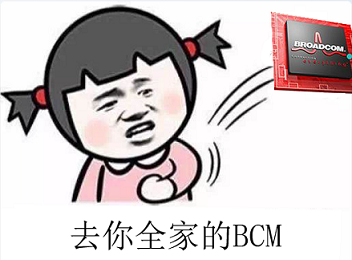
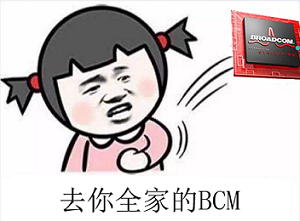
update

diff --git a/guide.md b/guide.md
@@ -60,7 +60,7 @@ scut_padavan最新的源代码在以下两个仓库里分发：
 - [https://github.com/hanwckf/rt-n56u](https://github.com/hanwckf/rt-n56u)
 - [https://gitee.com/hanwckf/rt-n56u](https://gitee.com/hanwckf/rt-n56u)
 
-固件里使用的scutclient为原项目的一个Fork，其源码可以在以下仓库里找到：
+scut_padavan集成的scutclient为原项目的一个Fork，其源码可以在以下仓库里找到：
 
 - [https://github.com/hanwckf/scutclient](https://github.com/hanwckf/scutclient)
 
@@ -473,6 +473,8 @@ scut_padavan默认开启ssh并关闭telnet，默认的用户名和密码都是`a
 
 使用ath10k开源驱动，路由器最好要有128M或以上的RAM；如果使用闭源的qcawifi驱动，则64M内存一般足够(如斐讯K2T等64M内存的路由器)。
 
+关于在OpenWrt使用scutclient进行校园网认证，请看[此处](https://github.com/scutclient/scutclient)，你也可以加入[华工路由器群](https://github.com/scutclient/scutclient#contact-us)了解更多信息，**OpenWrt不在本文档的支持范围之内。**
+
 截至最后更新日期，推荐的高通方案路由器有：
 - SBR-AC1750 (QCA9558+QCA9880)
 - 华硕AC58U (IPQ401x)
@@ -482,6 +484,8 @@ scut_padavan默认开启ssh并关闭telnet，默认的用户名和密码都是`a
 - 360 C301 (AR9344+QCA9882)
 
 想要使用Padavan固件，只能选择MT7620/7621/7628的路由器，并且无线芯片必须是MT7610/7612/7603/7615之一，否则没有无线驱动支持。
+
+scut_padavan在源码中集成了scutclient，并且在[Releases](https://github.com/hanwckf/rt-n56u/releases)中发布的大部分机型已将scutclient编译进去，绝大多数SCUT的同学可免于折腾直接使用。
 
 **不推荐购买过时的单7620/7628的单频路由器(如极路由1S等)，至少应选择支持5GHz WiFi的路由。**
 
@@ -495,23 +499,19 @@ scut_padavan默认开启ssh并关闭telnet，默认的用户名和密码都是`a
 
 MTK系列的路由器还可以刷同样采用私有无线驱动的PandoraBox(PanguBox)或高恪固件，这两个固件都不开放源代码，但是PandoraBox提供SDK，可以自己构建ipk包（前提是你没碰到它的bug）。同时PandoraBox还支持ar71xx/ipq401x/ipq806x等高通方案的路由器，里面用的是闭源的qcawifi无线驱动。
 
-MT7620/MT7628片内集成百兆交换机、单核580MHz MIPS 24kc处理器和2x2 2.4GHz WiFi模块，两者的区别在于MT7628去掉了MT7620的HWNAT，但增强了2.4GHz WiFi的抗干扰能力。
-
-MT7621片内集成千兆交换机以及双核四线程的880MHz MIPS 1004kc处理器，没有无线模块，因此MT7621方案的路由器需要外挂一个2.4GHz的无线芯片，一般会选用MT7603，有些高端产品会选用MT7615。显然MT7621的处理器远强于MT7620/7628，如果你在宿舍需要挂pt的话，推荐选择MT7621，或者考虑下面的软路由方案。
-
+MT7620/MT7628片内集成百兆交换机、单核580MHz MIPS 24kc处理器和2x2 2.4GHz WiFi模块，两者的区别在于MT7628去掉了MT7620的HWNAT，但增强了2.4GHz WiFi的抗干扰能力。  
+MT7621片内集成千兆交换机以及双核四线程的880MHz MIPS 1004kc处理器，没有无线模块，因此MT7621方案的路由器需要外挂一个2.4GHz的无线芯片，一般会选用MT7603，有些高端产品会选用MT7615。显然MT7621的处理器远强于MT7620/7628，如果你在宿舍需要挂pt的话，推荐选择MT7621，或者考虑下面的软路由方案。  
 MT7615是MTK新一代的无线芯片，性能远超MT7612和MT7603，价格也贵一些。
 
 MTK的无线方案在原版OpenWrt下采用mt76开源无线驱动，其性能和稳定性都弱于原厂私有驱动，当然随着代码的不断完善，相信mt76开源驱动的bug会越来越少。
 
 Marvell方案的路由器比较冷门且价格较高，但是对OpenWrt支持良好，例如思科WRT1900ACS系列。
 
-如果你有一块SBC（树莓派及其它各种国产pi）或ARM/ARM64盒子（斐讯N1,贝壳云,猫盘等等,常见的方案有s905/s912,RK3328/RK3368等等），可以用它作为OpenWrt软路由，再搭配一个MT7620/MT7621路由器做为VLAN交换机，此部分的参考资料会尽快更新上来。
-
+如果你有一块SBC（树莓派及其它各种国产pi）或ARM/ARM64盒子（斐讯N1,贝壳云,猫盘等等,常见的方案有s905/s912,RK3328/RK3368等等），可以用它作为OpenWrt软路由，再搭配一个MT7620/MT7621路由器做为VLAN交换机，此部分的参考资料会尽快更新上来。  
 ![](img/vlan.png)
 
-不推荐任何螃蟹方案的路由，因为几乎没有开源支持。
-
-**至于垃圾bcm以及垃圾bcm专属的梅林固件：**
+不推荐任何螃蟹方案的路由，因为几乎没有开源支持。  
+**至于垃圾bcm：**
 
 ![bcm](img/bcm.png)
 
